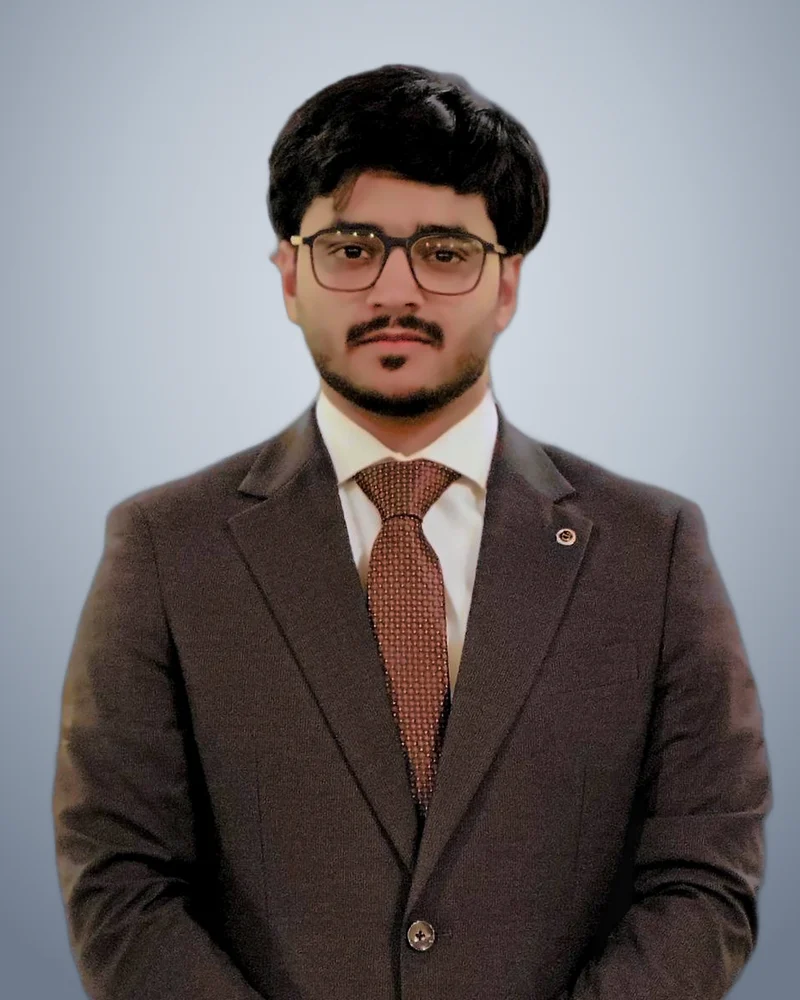
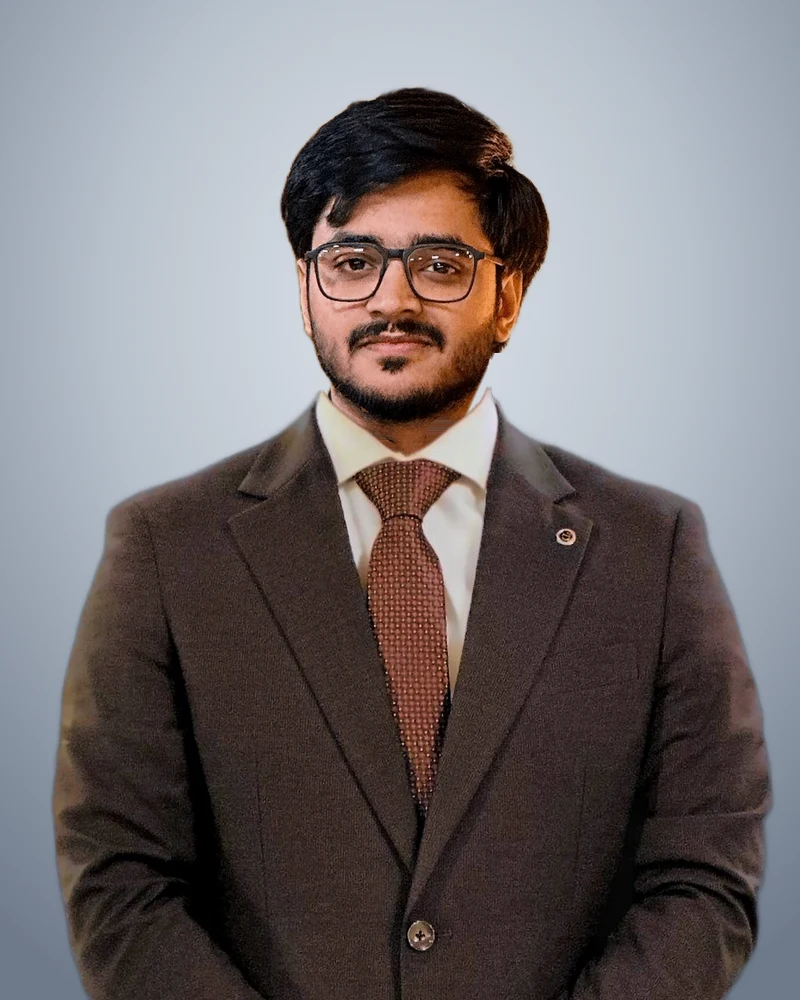
Done

Changed region(s): [[0.3125, 0.062, 0.6875, 0.465]]

diff --git a/src/lib/team.ts b/src/lib/team.ts
@@ -31,9 +31,15 @@ export const TEAM: TeamMember[] = [
     credential: 'ACA'
   },
   {
+    photo: '/team/moeiz-ahmad.webp',
+    name: { en: 'Moeiz Ahmad', ur: 'معیز احمد' },
+    role: { en: 'Director Business Operations', ur: 'ڈائریکٹر بزنس آپریشنز' },
+    credential: 'CA (Finalist) · CBA'
+  },
+  {
     photo: '/team/muhammad-haris-amjad.webp',
     name: { en: 'Muhammad Haris Amjad', ur: 'محمد حارث امجد' },
-    role: { en: 'Director IT & Business Operations', ur: 'ڈائریکٹر آئی ٹی و بزنس آپریشنز' },
+    role: { en: 'CEO & Director IT', ur: 'سی ای او اور ڈائریکٹر آئی ٹی' },
     credential: 'Software Engineer'
   }
 ]
